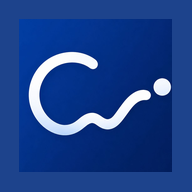
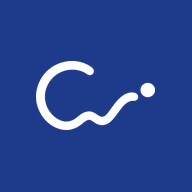
Add files via upload

diff --git a/index.html b/index.html
@@ -6,7 +6,7 @@
 <title>CotaFlow — Controle de Comissões</title>
 
 <!-- Ícone da aba / atalho na tela inicial -->
-<link rel="icon" type="image/png" href="icon.png">
+<link rel="icon" type="image/png" href="icon-512.png">
 <link rel="apple-touch-icon" href="apple-touch-icon.png">
 <link rel="manifest" href="manifest.json">
 <meta name="theme-color" content="#1E3A8A">
@@ -19,10 +19,10 @@
 <meta property="og:type" content="website">
 <meta property="og:title" content="CotaFlow — Controle de Comissões">
 <meta property="og:description" content="Controle de comissões parceladas por marca, direto do celular.">
-<meta property="og:image" content="https://cotaflow.github.io/app/icon.png">
+<meta property="og:image" content="https://cotaflow.github.io/app/icon-512.png">
 <meta name="twitter:card" content="summary">
 <meta name="twitter:title" content="CotaFlow — Controle de Comissões">
-<meta name="twitter:image" content="https://cotaflow.github.io/app/icon.png">
+<meta name="twitter:image" content="https://cotaflow.github.io/app/icon-512.png">
 
 <link rel="preconnect" href="https://fonts.googleapis.com">
 <link href="https://fonts.googleapis.com/css2?family=Inter:wght@400;500;600;700;800&display=swap" rel="stylesheet">
@@ -86,11 +86,11 @@
   }
   .brandmark{
     width:30px; height:30px; border-radius:9px;
-    background:linear-gradient(160deg, var(--primary), var(--primary-2));
     display:flex; align-items:center; justify-content:center;
     flex-shrink:0;
+    overflow:hidden;
   }
-  .brandmark svg{ width:17px; height:17px; }
+  .brandmark img{ width:100%; height:100%; object-fit:contain; display:block; }
   .brandname{ font-size:15.5px; font-weight:800; letter-spacing:-0.02em; color:var(--ink); }
   .brandname span{ color:var(--primary); }
 
@@ -487,7 +487,7 @@
   <div class="auth-box">
     <div class="auth-logo">
       <div class="brandmark">
-        <svg viewBox="0 0 24 24" fill="none"><path d="M4 15c2.5 0 3-3 5.5-3s3 3 5.5 3 3-6 5.5-6" stroke="#fff" stroke-width="2.2" stroke-linecap="round" stroke-linejoin="round"/><circle cx="19" cy="7.2" r="1.6" fill="#fff"/></svg>
+        <img src="logo.png" alt="CotaFlow">
       </div>
       <div class="brandname">Cota<span>Flow</span></div>
     </div>
@@ -518,7 +518,7 @@
 
 <div class="brandbar">
   <div class="brandmark">
-    <svg viewBox="0 0 24 24" fill="none"><path d="M4 15c2.5 0 3-3 5.5-3s3 3 5.5 3 3-6 5.5-6" stroke="#fff" stroke-width="2.2" stroke-linecap="round" stroke-linejoin="round"/><circle cx="19" cy="7.2" r="1.6" fill="#fff"/></svg>
+    <img src="logo.png" alt="CotaFlow">
   </div>
   <div class="brandname">Cota<span>Flow</span></div>
 </div>
